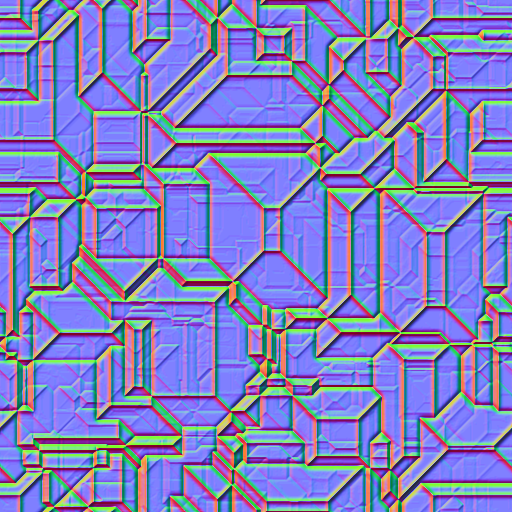
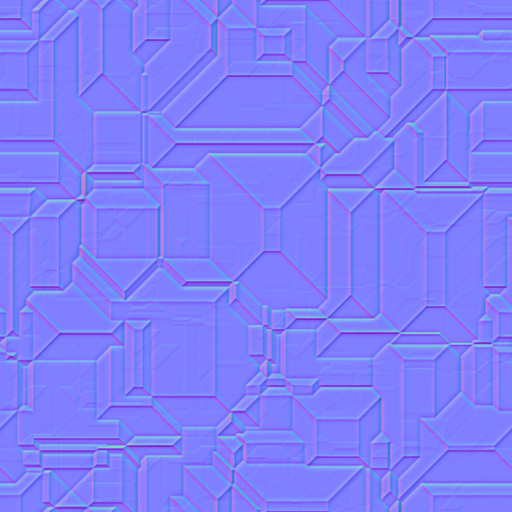
Correction des normal map (affichage irréaliste)

diff --git a/js/webgl/WebGLShaders.js b/js/webgl/WebGLShaders.js
@@ -6,7 +6,7 @@ ENGINE.WebGLShader = {
      */
     buildVertex: function (vertexVariables) {
         var head = "";
-        var core = "void main() {\n#ifdef VERTEX_LIGHTING\n    vec4 color = vec4(0.025, 0.025, 0.025, 1.0);\n    for(int i = 0; i < MAX_LIGHT; i++) {\n        vec4 position = uMVMatrix * vec4(aVertexPosition, 1.0);\n        float dist = length(uLights[i].position - position.xyz);\n        \n        float atten = (1.0 / ((1.0 / uLights[i].brightness) * dist * dist));\n        vec3 lightDir = normalize(uLights[i].position - position.xyz);\n        vec3 normal = normalize(vec3(uMVMatrix * vec4(aVertexNormal, 0.0)));\n        float diffuse = max(dot(normal, lightDir), 0.1) * (1.0 / (0.25 * dist * dist));\n        \n        color = color + vec4(uLights[i].color.rgb * diffuse * atten, uLights[i].color.a);\n    }\n    vColor = color;\n#elif defined(FRAGMENT_LIGHTING)\n    vPosition = vec3(uMVMatrix * vec4(aVertexPosition, 1.0));\n    vNormal = normalize(vec3(uMVMatrix * vec4(aVertexNormal, 0.0)));\n#endif\n\n#ifdef TEXTURE\n    vTextureCoord = aVertexTextureCoord;\n#endif\n    gl_Position = uMVPMatrix * vec4(aVertexPosition, 1.0);\n}";
+        var core = "#ifdef FRAGMENT_LIGHTING\nvec3 tangent(vec3 normal) {\n    vec3 c1 = cross(normal, vec3(0.0, 0.0, 1.0));\n    vec3 c2 = cross(normal, vec3(0.0, 1.0, 0.0));\n    \n    vec3 tangent = (length(c1) > length(c2)) ? c1 : c2;\n    \n    return normalize(tangent);\n}\n\nmat3 getTBN() {\n    vec3 wNormal = mat3(uMVMatrix) * aVertexNormal;\n    \n    vec3 normal = normalize(wNormal);\n    vec3 tangent = tangent(normal);\n    vec3 bitangent = cross(tangent, normal);\n    return mat3(tangent, bitangent, normal);\n}\n#endif\n\n#ifdef VERTEX_LIGHTING\nvec3 diffuse(Light light, vec3 position, vec3 normal) {\n    float dist = length(light.position - position);    \n    float atten = (1.0 / ((1.0 / light.brightness) * dist * dist));\n    \n    vec3 lightDir = normalize(light.position - position);\n    float diffuse = max(dot(normal, lightDir), 0.1) * atten;\n    return light.color * diffuse;\n}\n#endif\n\nvoid main() {\n#ifdef VERTEX_LIGHTING\n    vec3 totalLight = vec3(0.025);\n    for(int i = 0; i < MAX_LIGHT; i++) {\n        vec4 position = uMVMatrix * vec4(aVertexPosition, 1.0);\n        vec3 normal = normalize(mat3(uMVMatrix) * aVertexNormal);\n        totalLight += diffuse(uLights[i], position.xyz, normal); \n    }\n    vColor = vec4(totalLight, 1.0);\n#elif defined(FRAGMENT_LIGHTING)\n    vPosition = vec3(uMVMatrix * vec4(aVertexPosition, 1.0));\n    vTBN = getTBN();\n#endif\n\n#ifdef TEXTURE\n    vTextureCoord = aVertexTextureCoord;\n#endif\n    gl_Position = uMVPMatrix * vec4(aVertexPosition, 1.0);\n}";
 
         for(var prep of vertexVariables.preprocessor) {
             if(prep == '') continue;
@@ -47,7 +47,7 @@ ENGINE.WebGLShader = {
      */
     buildFragment: function (fragmentVariables) {
         var head = "precision mediump float;\n\n";
-        var core = "#ifdef FRAGMENT_LIGHTING\nfloat specular(vec3 lightDir, float brightness) {\n    vec3 eyeDir = normalize(-vPosition.xyz);\n    vec3 reflectLight = reflect(-lightDir, vNormal);\n    \n    return pow(max(dot(reflectLight, eyeDir), 0.0), 128.0);\n}\n\nvec4 lighting() {\n    vec4 color = vec4(0.025, 0.025, 0.025, 1.0);\n    vec4 normal = normalize(texture2D(uNormalTexture, vec2(vTextureCoord.s, vTextureCoord.t)) * vec4(vNormal, 1.0));\n        \n    for(int i = 0; i < MAX_LIGHT; i++) {\n        float dist = length(uLights[i].position - vPosition);\n        vec3 lightDir = normalize(uLights[i].position - vPosition);\n        \n        float atten = (1.0 / ((1.0 / uLights[i].brightness) * dist * dist));\n        float diffuse = max(dot(normal.xyz, lightDir), 0.0);\n        float specular = specular(lightDir, uLights[i].brightness);\n        \n        color = color + vec4(uLights[i].color.rgb * (diffuse + specular * 0.1) * atten, uLights[i].color.a);\n    }\n    return color;\n}\n#endif\n\nvoid main() {\n#ifdef FRAGMENT_LIGHTING\n    #ifdef TEXTURE\n    gl_FragColor = texture2D(uDiffuseTexture, vec2(vTextureCoord.s, vTextureCoord.t)) * lighting();\n    #else\n    gl_FragColor = lighting();\n    #endif\n#elif defined(VERTEX_LIGHTING)\n    #ifdef TEXTURE\n    gl_FragColor = texture2D(uDiffuseTexture, vec2(vTextureCoord.s, vTextureCoord.t)) * vColor;\n    #else\n    gl_FragColor = vColor;\n    #endif\n#else\n    gl_FragColor = vec4(1.0);\n#endif\n}";
+        var core = "#ifdef FRAGMENT_LIGHTING \nvec3 specular(vec3 lightDir, Light light, vec3 normal) {\n    vec3 eyeDir = normalize(-vPosition.xyz);\n    vec3 reflectLight = reflect(-lightDir, normal);\n    \n    return light.color * pow(max(dot(reflectLight, eyeDir), 0.0), 128.0);\n}\n\nvec3 diffuse(vec3 lightDir, Light light, vec3 normal) {\n    float diffuseFactor = max(dot(normal, lightDir), 0.0);\n    \n    return light.color * diffuseFactor;\n}\n\nvec3 calculateNormal() {\n#ifdef TEXTURE\n    return (uMaterial.useNormal) ? vTBN * (texture2D(uMaterial.textureNormal, vTextureCoord).xyz * 2.0 - 1.0) : vTBN * vec3(0.0, 0.0, 1.0);\n#else\n    return vTBN * vec3(0.0, 0.0, 1.0);\n#endif\n}\n\nvec3 calcLight(Light light, vec3 lightDir, vec3 normal) {\n    vec3 diffuse = diffuse(lightDir, light, normal);\n    vec3 specular = specular(lightDir, light, normal) * 0.1;\n    \n    return diffuse + specular;\n}\n\nvec3 lighting(Light light, vec3 normal) {\n    vec3 lightDir = light.position - vPosition;\n    float dist = length(lightDir);\n    lightDir = normalize(lightDir);\n    \n    vec3 color = calcLight(light, lightDir, normal);\n    float atten = (1.0 / ((1.0 / light.brightness) * dist * dist));\n    return color * atten;\n}\n#endif\n\nvoid main() {\n#ifdef FRAGMENT_LIGHTING\n    vec3 totalLight = vec3(0.025, 0.025, 0.025);\n    vec3 normal = calculateNormal();\n    \n    for(int i = 0; i < MAX_LIGHT; i++) totalLight += lighting(uLights[i], normal);\n    \n    #ifdef TEXTURE\n        gl_FragColor = texture2D(uMaterial.textureDiffuse, vTextureCoord) * vec4(totalLight, 1.0);\n    #else\n        gl_FragColor = vec4(totalLight, 1.0);\n    #endif\n#elif defined(VERTEX_LIGHTING)\n    #ifdef TEXTURE\n        gl_FragColor = texture2D(uMaterial.textureDiffuse, vTextureCoord) * vColor;\n    #else\n        gl_FragColor = vColor;\n    #endif\n#else\n    #ifdef TEXTURE\n        gl_FragColor = texture2D(uMaterial.textureDiffuse, vTextureCoord);\n    #else\n        gl_FragColor = vec4(1.0);\n    #endif\n#endif\n}";
 
         for(var prep of fragmentVariables.preprocessor) {
             if(prep == '') continue;
@@ -83,8 +83,8 @@ ENGINE.WebGLShader = {
      */
     canImplement: function (variable) {
         for(var condition of variable.implementWhen) {
-            if(ENGINE.isEnabled(condition)) return true;
+            if(!ENGINE.isEnabled(condition)) return false;
         }
-        return false;
+        return true;
     }
 };

diff --git a/js/webgl/WebGLVariables.js b/js/webgl/WebGLVariables.js
@@ -16,12 +16,12 @@ ENGINE.WebGLVariable = function () {
         uniforms: [
             {name:"mvMatrixUniform", shaderName:"uMVMatrix", type:"mat4", isArray:false, implementWhen:[ENGINE.DEFAULT_MASK]},
             {name:"mvpMatrixUniform", shaderName:"uMVPMatrix", type:"mat4", isArray:false, implementWhen:[ENGINE.DEFAULT_MASK]},
-            {name:"lightsUniform", shaderName:"uLights", type:"Light", isArray:true, arrayLength:ENGINE.MAX_LIGHT, implementWhen:[ENGINE.VERTEX_LIGHT_MASK]}
+            {name:"lightsUniform", shaderName:"uLights", custom:true, type:"Light", isArray:true, arrayLength:ENGINE.MAX_LIGHT, implementWhen:[ENGINE.VERTEX_LIGHT_MASK]}
         ],
 
         varying: [
-            {shaderName:"vNormal", type:"vec3", implementWhen:[ENGINE.FRAGMENT_LIGHT_MASK]},
             {shaderName:"vPosition", type:"vec3", implementWhen:[ENGINE.FRAGMENT_LIGHT_MASK]},
+            {shaderName:"vTBN", type:"mat3", implementWhen:[ENGINE.FRAGMENT_LIGHT_MASK]},
             {shaderName:"vColor", type:"vec4", implementWhen:[ENGINE.VERTEX_LIGHT_MASK]},
             {shaderName:"vTextureCoord", type:"vec2", implementWhen:[ENGINE.TEXTURE_MASK]}
         ],
@@ -29,7 +29,7 @@ ENGINE.WebGLVariable = function () {
         struct: {
             Light:{implementWhen:[ENGINE.VERTEX_LIGHT_MASK], data: [
                 {name:"position", type:"vec3"},
-                {name:"color", type:"vec4"},
+                {name:"color", type:"vec3"},
                 {name:"brightness", type:"float"}
             ]}
         }
@@ -44,14 +44,13 @@ ENGINE.WebGLVariable = function () {
         ],
 
         uniforms: [
-            {name:"lightsUniform", shaderName:"uLights", type:"Light", isArray:true, arrayLength:ENGINE.MAX_LIGHT, implementWhen:[ENGINE.FRAGMENT_LIGHT_MASK]},
-            {name:"textureDiffuseUniform", shaderName:"uDiffuseTexture", type:"sampler2D", isArray:false, implementWhen:[ENGINE.TEXTURE_MASK]},
-            {name:"textureNormalUniform", shaderName:"uNormalTexture", type:"sampler2D", isArray:false, implementWhen:[ENGINE.TEXTURE_MASK]}
+            {name:"lightsUniform", shaderName:"uLights", custom:true, type:"Light", isArray:true, arrayLength:ENGINE.MAX_LIGHT, implementWhen:[ENGINE.FRAGMENT_LIGHT_MASK]},
+            {name:"materialUniform", shaderName:"uMaterial", custom:true, type:"Material", isArray:false, implementWhen:[ENGINE.TEXTURE_MASK]}
         ],
 
         varying: [
-            {shaderName:"vNormal", type:"vec3", implementWhen:[ENGINE.FRAGMENT_LIGHT_MASK]},
             {shaderName:"vPosition", type:"vec3", implementWhen:[ENGINE.FRAGMENT_LIGHT_MASK]},
+            {shaderName:"vTBN", type:"mat3", implementWhen:[ENGINE.FRAGMENT_LIGHT_MASK]},
             {shaderName:"vColor", type:"vec4", implementWhen:[ENGINE.VERTEX_LIGHT_MASK]},
             {shaderName:"vTextureCoord", type:"vec2", implementWhen:[ENGINE.TEXTURE_MASK]}
         ],
@@ -59,8 +58,13 @@ ENGINE.WebGLVariable = function () {
         struct: {
             Light:{implementWhen:[ENGINE.FRAGMENT_LIGHT_MASK], data: [
                 {name:"position", type:"vec3"},
-                {name:"color", type:"vec4"},
+                {name:"color", type:"vec3"},
                 {name:"brightness", type:"float"}
+            ]},
+            Material:{implementWhen:[ENGINE.TEXTURE_MASK], data: [
+                {name:"textureDiffuse", type:"sampler2D"},
+                {name:"textureNormal", type:"sampler2D"},
+                {name:"useNormal", type:"bool"}
             ]}
         }
     };

diff --git a/js/main.js b/js/main.js
@@ -14,14 +14,13 @@ function init() {
     canvas = document.getElementById("canvas");
     ENGINE.enableOption(ENGINE.FRAGMENT_LIGHT_MASK);
     ENGINE.enableOption(ENGINE.TEXTURE_MASK);
-    ENGINE.enableOption(ENGINE.TEXTURE_NORMAL_MASK);
     ENGINE.init(canvas);
 
     camera = new ENGINE.Camera("perspective");
     scene = new ENGINE.Scene(camera);
 
     var randX, randY, randZ;
-    var mat = new ENGINE.Material().bindDiffuse("img/metalic_diffuse.png").bindNormal("img/metalic_normal.png");
+    var mat = new ENGINE.Material().bindDiffuse("img/metalic_diffuse.png", 2).bindNormal("img/metalic_normal.png", 2);
 
     for(var i = 0; i < 200; i++) {
         randX = Math.random() * 5 - 2.5;
@@ -44,9 +43,33 @@ function init() {
         var randG = Math.random();
         var randB = Math.random();
 
-        var light = new ENGINE.Light(new ENGINE.Vec3(randX, randY, randZ), new ENGINE.Color(randR, randG, randB, 1.0), 0.75);
+        var light = new ENGINE.Light(new ENGINE.Vec3(randX, randY, randZ), new ENGINE.Color(randR, randG, randB, 1.0), 1.0);
         scene.addLight(light);
     }
+
+    /*camera = new ENGINE.Camera("perspective");
+    camera.setPositionRotation(new ENGINE.Vec3(0.0, 0.0, 0.0), new ENGINE.Euler());
+    scene = new ENGINE.Scene(camera);
+
+    var pos1 = new ENGINE.Vec3(0, 0, 1);
+    var pos2 = new ENGINE.Vec3(0.75, 0, 1);
+
+    var rot1 = new ENGINE.Euler(0, 0.3, 0.0);
+    var rot2 = new ENGINE.Euler(0, 0, 0.75);
+
+    var mat1 = new ENGINE.Material().bindDiffuse("img/metalic_diffuse.png", 2).bindNormal("img/metalic_normal.png", 2);
+
+    var b1 = new ENGINE.Box(pos1, rot1, 0.2, 0.2, 0.2);
+    var b2 = new ENGINE.Box(pos2, rot2, 0.3, 0.3, 0.3);
+    b1.bindMaterial(mat1);
+    b2.bindMaterial(mat1);
+    scene.addShape(b1);
+    scene.addShape(b2);
+
+    var lpos = new ENGINE.Vec3(0, 0, 0.0);
+    var lcol = new ENGINE.Color(1.0, 1.0, 1.0, 1.0);
+    var l = new ENGINE.Light(lpos, lcol, 2.0);
+    scene.addLight(l);*/
 
     initEvents();
 
@@ -102,7 +125,7 @@ function loop() {
 
     scene.drawScene();
 
-    for(var shape of scene.shapes) shape.rotate(new ENGINE.Euler(0.01, 0.01, 0.01));
+    for(var shape of scene.shapes) shape.rotate(new ENGINE.Euler(0.0025, 0.0025, 0.0025));
     window.requestAnimationFrame(loop);
 }
 
@@ -121,11 +144,11 @@ function countFPS() {
 function handleKeyboardEvent() {
     for(var key of keyPressed) {
         if(key == 97 || key == 98) {
-            var dy = -((key - 97.5) * 0.2);
+            var dy = -((key - 97.5) * 0.05);
             camera.translate(new ENGINE.Vec3(0, dy, 0));
         } else {
-            var dz = -((key - 39) % 2) * 0.1;
-            var dx = ((key - 38) % 2) * 0.1;
+            var dz = -((key - 39) % 2) * 0.025;
+            var dx = ((key - 38) % 2) * 0.025;
 
             camera.translate(new ENGINE.Vec3(dx, 0, dz));
         }

diff --git a/js/scene/shapes/Material.js b/js/scene/shapes/Material.js
@@ -12,27 +12,32 @@ ENGINE.Material.prototype = {
     /**
      * Charge une texture
      * @param texture
+     * @param filter {number} 0 = Nearest, 1 = Linear, 2 = Mipmap
      */
-    loadTexture: function (texture) {
+    loadTexture: function (texture, filter) {
+        var minFilter = (filter == 0) ? GL.NEAREST : GL.LINEAR;
+        var maxFilter = (filter == 0) ? GL.NEAREST : (filter == 1) ? GL.LINEAR : GL.LINEAR_MIPMAP_LINEAR;
         GL.bindTexture(GL.TEXTURE_2D, texture);
-        GL.pixelStorei(GL.UNPACK_FLIP_Y_WEBGL, true);
+        GL.pixelStorei(GL.UNPACK_FLIP_Y_WEBGL, 1);
         GL.texImage2D(GL.TEXTURE_2D, 0, GL.RGBA, GL.RGBA, GL.UNSIGNED_BYTE, texture.image);
-        GL.texParameteri(GL.TEXTURE_2D, GL.TEXTURE_MAG_FILTER, GL.NEAREST);
-        GL.texParameteri(GL.TEXTURE_2D, GL.TEXTURE_MIN_FILTER, GL.NEAREST);
+        GL.texParameteri(GL.TEXTURE_2D, GL.TEXTURE_MAG_FILTER, minFilter);
+        GL.texParameteri(GL.TEXTURE_2D, GL.TEXTURE_MIN_FILTER, maxFilter);
+        if(filter == 2) GL.generateMipmap(GL.TEXTURE_2D);
         GL.bindTexture(GL.TEXTURE_2D, null);
     },
 
     /**
      * Défini la texture diffuse
      * @param diffuseSrc {String} chemin de l'image de la texture
+     * @param filter {number} 0 = Nearest, 1 = Linear, 2 = Mipmap
      * @returns {ENGINE.Material}
      */
-    bindDiffuse: function (diffuseSrc) {
+    bindDiffuse: function (diffuseSrc, filter) {
         this.diffuse = GL.createTexture();
         this.diffuse.image = new Image();
         var instance = this;
         this.diffuse.image.onload = function() {
-            instance.loadTexture(instance.diffuse);
+            instance.loadTexture(instance.diffuse, filter);
         };
         this.diffuse.image.src = diffuseSrc;
         return this;
@@ -41,14 +46,15 @@ ENGINE.Material.prototype = {
     /**
      * Défini la texture normal
      * @param normalSrc {String} chemin de l'image de la texture
+     * @param filter {number} 0 = Nearest, 1 = Linear, 2 = Mipmap
      * @returns {ENGINE.Material}
      */
-    bindNormal: function (normalSrc) {
+    bindNormal: function (normalSrc, filter) {
         this.normal = GL.createTexture();
         this.normal.image = new Image();
         var instance = this;
         this.normal.image.onload = function() {
-            instance.loadTexture(instance.normal);
+            instance.loadTexture(instance.normal, filter);
         };
         this.normal.image.src = normalSrc;
         return this;

diff --git a/js/webgl/WebGLProgram.js b/js/webgl/WebGLProgram.js
@@ -91,9 +91,12 @@ ENGINE.WebGLProgram.prototype = {
         for(var uniform of uniforms) {
             if(!this.canImplement(uniform)) continue;
 
-            if(uniform.isArray) {
+            if(uniform.isArray && uniform.custom) {
                 var struct = this.getStructByName(uniform.type);
                 this.createUniformStructArrayPointer(shaderProgram, uniform, struct);
+            } else if(uniform.custom) {
+                var struct = this.getStructByName(uniform.type);
+                this.createUniformStructPointer(shaderProgram, uniform, struct);
             } else shaderProgram[uniform.name] = GL.getUniformLocation(shaderProgram, uniform.shaderName);
         }
     },
@@ -104,7 +107,7 @@ ENGINE.WebGLProgram.prototype = {
      * @returns {Object} la structure
      */
     getStructByName: function (name) {
-        return (this.variables.vertex.struct) ? this.variables.vertex.struct[name] : this.variables.fragment.struct[name];
+        return this.variables.vertex.struct[name] || this.variables.fragment.struct[name];
     },
 
     /**
@@ -124,6 +127,25 @@ ENGINE.WebGLProgram.prototype = {
         }
     },
 
+    /**
+     * Créée les pointeurs d'un uniform dont le type est une structure personnalisée
+     * @param shaderProgram {WebGLProgram} le programme de dessin
+     * @param uniform {Object} la variable uniform
+     * @param struct {Object} la structure
+     */
+    createUniformStructPointer: function (shaderProgram, uniform, struct) {
+        shaderProgram[uniform.name] = [];
+        for(var j = 0; j < struct.data.length; j++) {
+            shaderProgram[uniform.name][struct.data[j].name] = GL.getUniformLocation(shaderProgram, uniform.shaderName + "." + struct.data[j].name);
+        }
+    },
+
+    /**
+     * Retourne true si la variable peut être implémentée en
+     * fonction des options activées, false sinon
+     * @param variable {Object} la variable
+     * @returns {boolean}
+     */
     canImplement: function (variable) {
         for(var condition of variable.implementWhen) {
             if(ENGINE.isEnabled(condition)) return true;

diff --git a/js/scene/Scene.js b/js/scene/Scene.js
@@ -27,19 +27,24 @@ ENGINE.Scene.prototype = {
         GL.viewport(0, 0, GL.viewportWidth, GL.viewportHeight);
         GL.clear(GL.COLOR_BUFFER_BIT | GL.DEPTH_BUFFER_BIT);
 
-        if(ENGINE.isEnabled(ENGINE.FRAGMENT_LIGHT_MASK) || ENGINE.isEnabled(ENGINE.VERTEX_LIGHT_MASK)) {
-            for (var i = 0; i < this.lights.length; i++) {
-                var pos = ENGINE.Vec3.matTransform(this.lights[i].position, this.camera.getViewMatrix());
-                var col = this.lights[i].color;
-                var brightness= this.lights[i].brightness * 1.0;
-
-                GL.uniform1f(ENGINE.shaderProgram["lightsUniform"][i].brightness, brightness);
-                GL.uniform3fv(ENGINE.shaderProgram["lightsUniform"][i].position, [pos.x, pos.y, pos.z]);
-                GL.uniform4fv(ENGINE.shaderProgram["lightsUniform"][i].color, [col.r, col.g, col.b, col.a]);
-            }
-        }
+        if(ENGINE.isEnabled(ENGINE.FRAGMENT_LIGHT_MASK) || ENGINE.isEnabled(ENGINE.VERTEX_LIGHT_MASK)) this.renderLights();
 
         for(var shape of this.shapes) shape.renderShape(this);
+    },
+
+    /**
+     * Réalise le rendu de la lumière
+     */
+    renderLights: function () {
+        for (var i = 0; i < this.lights.length; i++) {
+            var pos = ENGINE.Vec3.matTransform(this.lights[i].position, this.camera.getViewMatrix());
+            var col = this.lights[i].color;
+            var brightness = this.lights[i].brightness * 1.0;
+
+            GL.uniform1f(ENGINE.shaderProgram["lightsUniform"][i].brightness, brightness);
+            GL.uniform3fv(ENGINE.shaderProgram["lightsUniform"][i].position, [pos.x, pos.y, pos.z]);
+            GL.uniform3fv(ENGINE.shaderProgram["lightsUniform"][i].color, [col.r, col.g, col.b]);
+        }
     },
 
     /**

diff --git a/js/scene/shapes/Shape.js b/js/scene/shapes/Shape.js
@@ -10,6 +10,8 @@ ENGINE.Shape = function(geometry, position, rotation) {
     this.position = position || new ENGINE.Vec3();
     this.eRotation = rotation || new ENGINE.Euler();
     this.qRotation = new ENGINE.Quat().fromEuler(this.eRotation);
+
+    this.material = new ENGINE.Material();
 };
 
 ENGINE.Shape.prototype = {
@@ -34,13 +36,14 @@ ENGINE.Shape.prototype = {
 
             GL.activeTexture(GL.TEXTURE0);
             GL.bindTexture(GL.TEXTURE_2D, this.material.diffuse);
-            GL.uniform1i(ENGINE.shaderProgram["textureDiffuseUniform"], 0);
+            GL.uniform1i(ENGINE.shaderProgram["materialUniform"]["textureDiffuse"], 0);
 
-            if(this.material.normal) {
-                GL.activeTexture(GL.TEXTURE1);
-                GL.bindTexture(GL.TEXTURE_2D, this.material.normal);
-                GL.uniform1i(ENGINE.shaderProgram["textureNormalUniform"], 1);
-            }
+            GL.activeTexture(GL.TEXTURE1);
+            GL.bindTexture(GL.TEXTURE_2D, this.material.normal);
+            GL.uniform1i(ENGINE.shaderProgram["materialUniform"]["textureNormal"], 1);
+
+            GL.uniform1i(ENGINE.shaderProgram["materialUniform"]["textureNormal"], 1);
+            GL.uniform1i(ENGINE.shaderProgram["materialUniform"]["useNormal"], (this.material.normal) ? 1 : 0);
         }
 
         GL.bindBuffer(GL.ARRAY_BUFFER, vertexNormalBuffer);

diff --git a/index.html b/index.html
@@ -6,6 +6,7 @@
         <script type="text/javascript" src="js/mathutils/Vec3.js"></script>
         <script type="text/javascript" src="js/mathutils/Quat.js"></script>
         <script type="text/javascript" src="js/mathutils/Mat4.js"></script>
+        <script type="text/javascript" src="js/mathutils/Mat3.js"></script>
         <script type="text/javascript" src="js/mathutils/Color.js"></script>
         <script type="text/javascript" src="js/scene/shapes/Material.js"></script>
         <script type="text/javascript" src="js/geometry/Geometry.js"></script>
